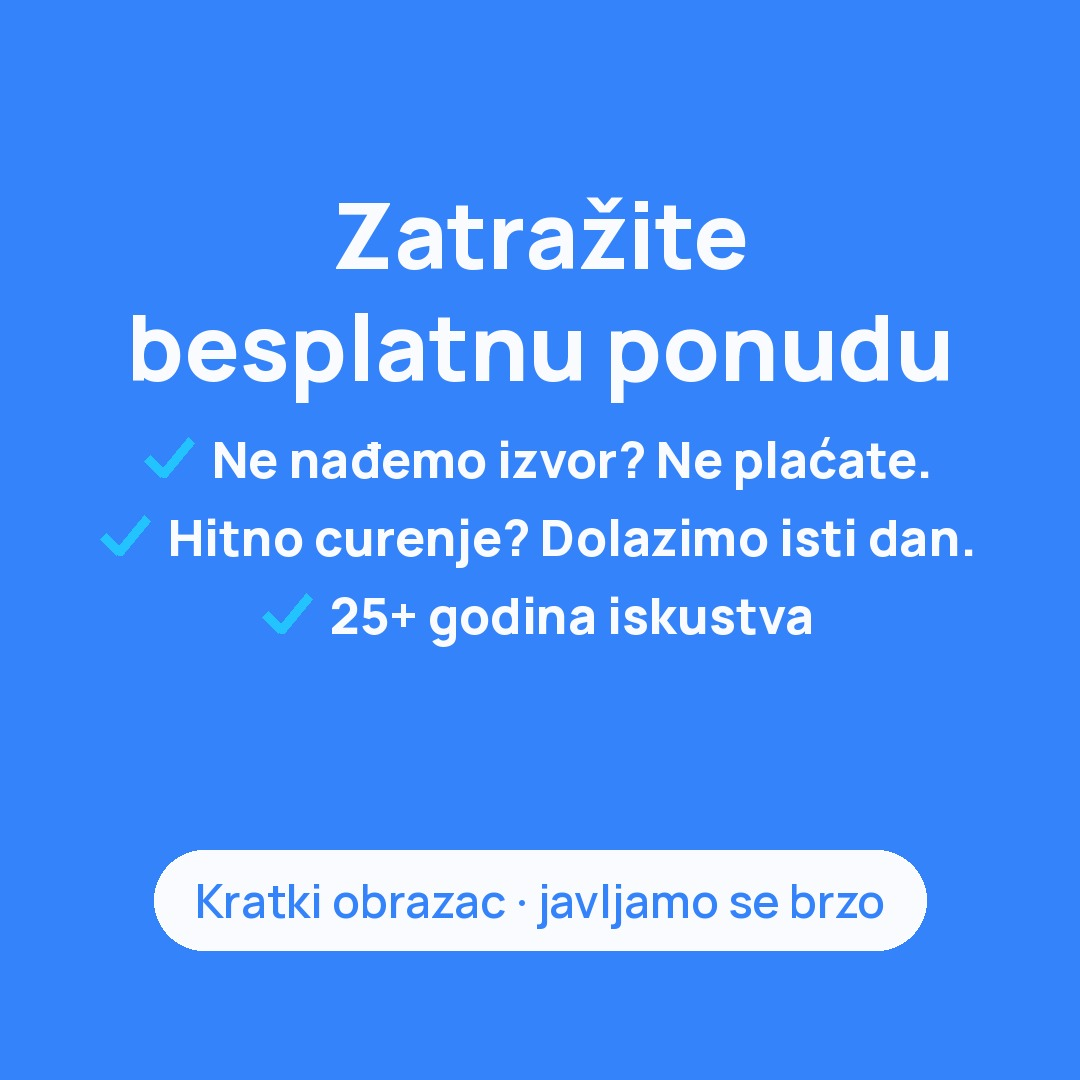
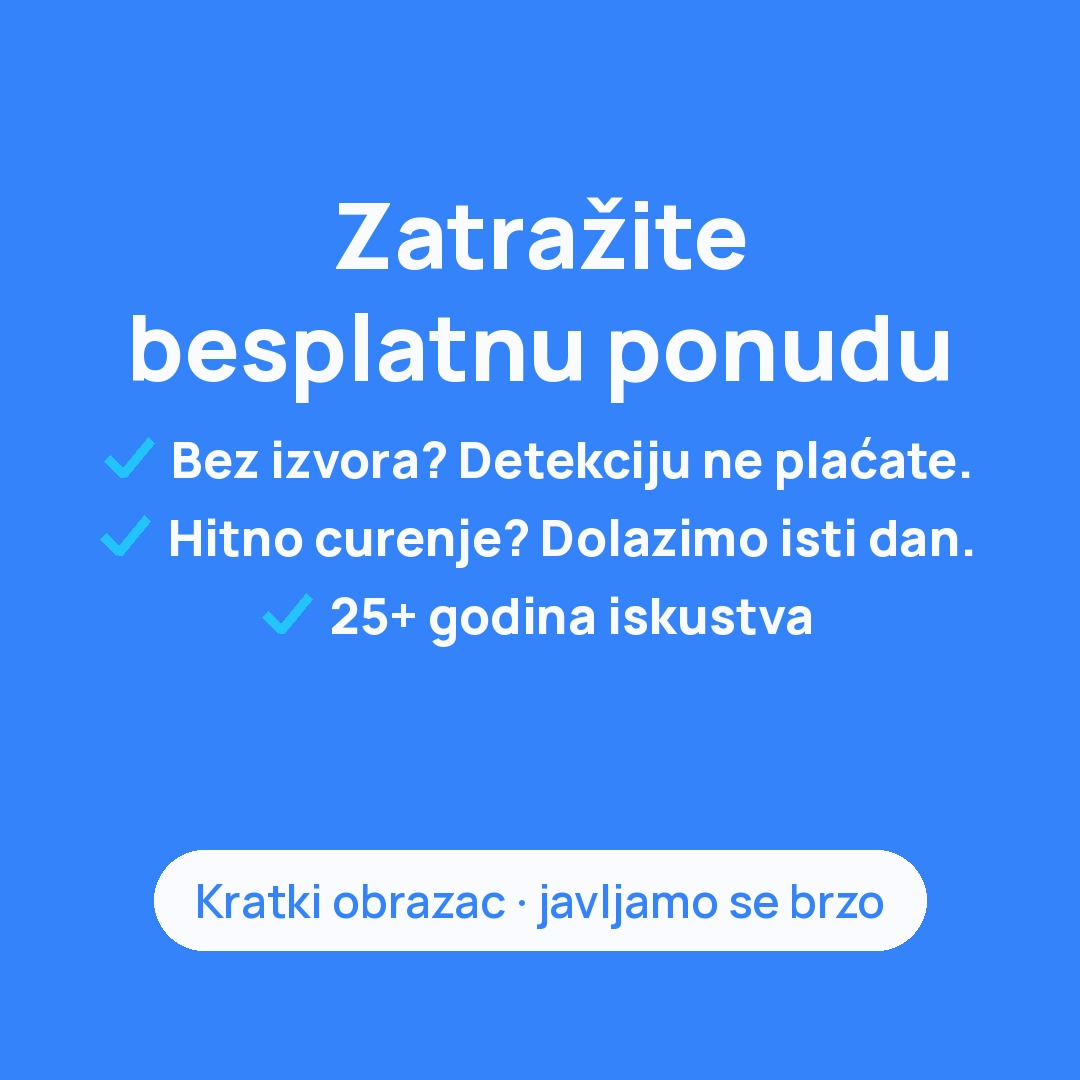
HR F1 LIE-framework carousel created paused; CTA guarantee fix on A2/B2
Claude-Session: https://claude.ai/code/session_01Fq6aonpWTUry3gYoURu8Bs

Changed region(s): [[0.0917, 0.3972, 0.8861, 0.4583]]

diff --git a/.claude/skills/make-ad/SKILL.md b/.claude/skills/make-ad/SKILL.md
@@ -45,6 +45,7 @@ A2 (auction, AU) is the reference build. Every new ad should be as good as A2 v6
   - Write natural Croatian (not translated English), with HR facts from `sites/landers/markets.json` (`hr`).
   - Card notes must say David is the native-language check.
   - **HR ads are static carousels only, no HeyGen video (David, 2026-10-21).**
+  - HR angle bank: the LIE framework (villainize the category: Lie, Insight, Exit), see creative/hr-round1/README.md "F1". Attack the old method or era, never tradesmen. CTA guarantee line must keep "detekciju": "Bez izvora? Detekciju ne plaćate."
   - **HR ads use the Meta Instant Form, not a landing page** (David, 2026-10-15: "we have had great success with this"). Form `2898956873609451` on page `658374350686787`, ad set Adv Plus `120227138979370195`. `create_ad` with `creative.object_story_spec.video_data.call_to_action = {"type":"GET_QUOTE","value":{"lead_gen_form_id":"2898956873609451","link":"http://fb.me/"}}`. Skip section 4 for HR; the desk card's `landing` gate notes the form instead.
   - HR facts (David, 2026-10-15): 13 five-star Google reviews; 25+ years combined experience; global leak detection and building consultancy experience; thermal imaging, moisture meters, CCTV drain cameras, pipe locators, tracer gas, acoustic detection; repairs of moisture problems. Croatia-wide; never mention the Zagreb base. No prices. Phone 099 208 0227. Offer: find leaks without breaking tiles; same-day visit for urgent leaks.
   - HR guarantee (Jeremy, pending David's OK on the desk): "Ako ne pronađemo izvor curenja vode, detekciju ne plaćate." Active water leaks only; never on mould/damp/rising-damp ads (use the same-day written report there). No mould health claims.

diff --git a/creative/hr-round1/README.md b/creative/hr-round1/README.md
@@ -74,3 +74,10 @@ David: "for the HR ads, don't use HeyGen… create more carousels based off my c
 | hr-a2-bez-plocica | 120254363485170195 |
 | hr-b2-racun-za-vodu | 120254374850340195 |
 | hr-c2-plijesan | 120254375371700195 |
+
+## F1: LIE framework carousel (2026-10-22)
+David sent a reel (instagram.com/reel/DecLfuoMoLq): "villainize the category", the LIE framework. L = what everyone accepts as normal that sucks. I = a believable reason the category gets it wrong. E = the one thing we do differently. Her claim: it works well on cold traffic because people already know the category.
+- HR version: the villain is "Moramo razbiti da vidimo" (break it open to find the leak). Insight: water travels through screed, so people break in the wrong place (the real 12 m Istra job). Exit: we locate first, then open one point.
+- Jeremy 8.4. His fixes are applied: card 3, card 4 "pa tek onda", the primary-text line "Prije termovizije i akustike, razbijanje je bilo jedina opcija" (attack the era, not tradesmen), and the full guarantee meaning on the CTA card.
+- Ad 120254397527130195, created paused and waiting on the HR desk. Jeremy's test: F1 (method as villain) vs A2 (straight pain). If F1 wins on cost per qualified lead, build the next HR carousels on the LIE structure.
+- The CTA guarantee line is now "Bez izvora? Detekciju ne plaćate." on A2, B2 and F1. Jeremy flagged that "Ne plaćate" alone overstated the guarantee. A2 and B2 were already live (David approved them 21 Oct), so card 5 was swapped on the live ads.
